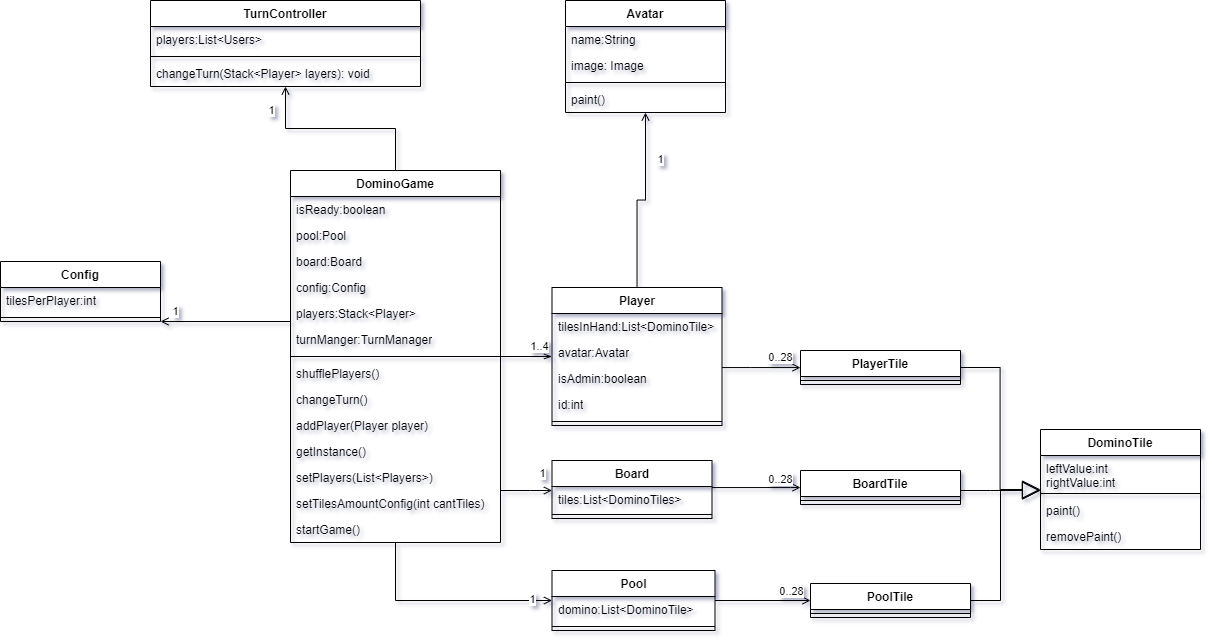
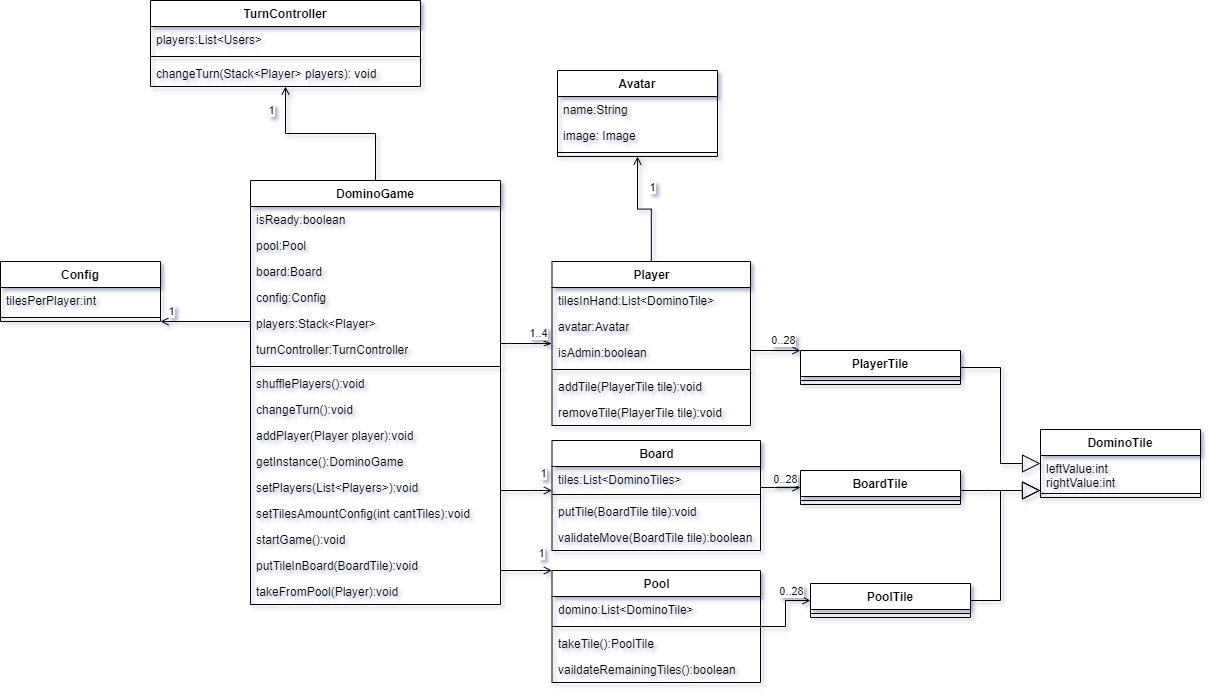
docs: update domain diagram

diff --git a/docs/diagrams/DD_client.md b/docs/diagrams/DD_client.md
@@ -2,6 +2,17 @@
 
 Figure 1. Diagrama de Dominio
 
-| Componente | Definicion                                                                                         |
-| ---------- | -------------------------------------------------------------------------------------------------- |
-| Clase1     | <p>Descripcion de la clase</p><ul><li>`function_name` _(type)_: function desc<li><li><li><li></ul> |
+
+_* Nota: Los getters/setters que no contienen ninguna instrucción especial son omitidos en la definición del componente._
+
+| Componente     | Definicion                                                                                                                                                                                                                                                                                                                                                                                                                                                                                                                                                                                                                                                                                                                                                                                                                                                                                                                                                                                    |
+| -------------- | --------------------------------------------------------------------------------------------------------------------------------------------------------------------------------------------------------------------------------------------------------------------------------------------------------------------------------------------------------------------------------------------------------------------------------------------------------------------------------------------------------------------------------------------------------------------------------------------------------------------------------------------------------------------------------------------------------------------------------------------------------------------------------------------------------------------------------------------------------------------------------------------------------------------------------------------------------------------------------------------- |
+| DominoGame     | Contiene toda la información del juego y métodos para interactuar con este.  <ul><li>`shufflePlayers():void`: Del atributo `players`, este método los reacomoda de forma aleatoria, es necesario antes de iniciar el juego.</li><li>`changeTurn():void`: Llama a `TurnController.changeTurn(...)` para cambiar el turno de los jugadores</li><li>`addPlayer(Player):void`: Agrega un jugador al juego.</li><li>`getInstance(): DominoGame`: regresa una instancia única de `DominoGame`.</li><li>`startGame():void`: Intenta iniciar el juego, si es que se encuentra en condiciones de hacerlo.</li><li>`setTilesAmountConfig(int cantTiles):void`: Crea una instancia de `Config` con la cantidad de fichas y la guarda en el juego. </li><li>`putTileInBoard(BoardTile):void`: Intenta poner una ficha en el tablero.</li><li>`takeFromPool(Player):void`: Intenta asignarle una ficha del pozo al jugador, si es que el jugador es valido y si es que quedan fichas en el pozo.</li></ul> |
+| Config         | Contiene la configuración del juego. <ul><li>`tilesPerPlayer` _int_: Representa la cantidad de fichas con la que los jugadores van a inciar (mínimo 2, máximo 7).</li></ul>                                                                                                                                                                                                                                                                                                                                                                                                                                                                                                                                                                                                                                                                                                                                                                                                                   |
+| TurnController | Se encarga del algoritmo de cambiar turno. <ul><li>`changeTurn(Stack<Player> players): void`: Recorre la pila, mandando al que tenía el turno actual al final.</li></ul>                                                                                                                                                                                                                                                                                                                                                                                                                                                                                                                                                                                                                                                                                                                                                                                                                      |
+| Player         | Representa al jugador que se encuentra en la partida. <ul><li>`isAdmin` _boolean_: Representa al jugador dueño de sala, solo puede haber uno por partida. Este puede configurar la partida.</li><br><li>`addTile(PlayerTile tile):void`: Agrega una ficha a la mano del jugador.</li><li>`removeTile(PlayerTile tile):void`: intenta remover una ficha de la mano del jugador, verificando si sí la posee.</li></ul>                                                                                                                                                                                                                                                                                                                                                                                                                                                                                                                                                                          |
+| Board          | Es el tablero del juego, contiene el tren de fichas y métodos para interactuar con este.<ul><li>`putTile(BoardTile tile):void`: Pone una ficha en el tren de fichas.</li><li>`validateMove(BoardTile tile):boolean`: Valida que la ficha se puede poner en el tren de fichas, tomando en cuenta su estado actual.</li></ul>                                                                                                                                                                                                                                                                                                                                                                                                                                                                                                                                                                                                                                                                   |
+| Pool           | Contiene las fichas del pozo.<ul><li>`takeTile():PoolTile`: Toma una ficha del pozo.</li><li>`validateRemainingTiles():boolean`: Checa si aún hay fichas restantes.</li></ul>                                                                                                                                                                                                                                                                                                                                                                                                                                                                                                                                                                                                                                                                                                                                                                                                                 |
+## Referencias
+
+Las interacciones de estos métodos se pueden ver en el diagrama de secuencia de [Ejercer Turno](/docs/diagrams//Ejercer_Turno.md#ds-ejercer-turno) y [Actualizar Juego](/docs/diagrams/Iniciar_Partida.md#ds-iniciar-partida).

diff --git a/docs/diagrams/Iniciar_Partida.md b/docs/diagrams/Iniciar_Partida.md
@@ -16,7 +16,7 @@ Figure 1. Diagrama de Clase de Iniciar Partida
 
 ## Secuencia
 
-### Iniciar Partida
+### DS Iniciar Partida
 
 ![Figure1](/docs/imgs/SD_iniciar_partida.png)
 
